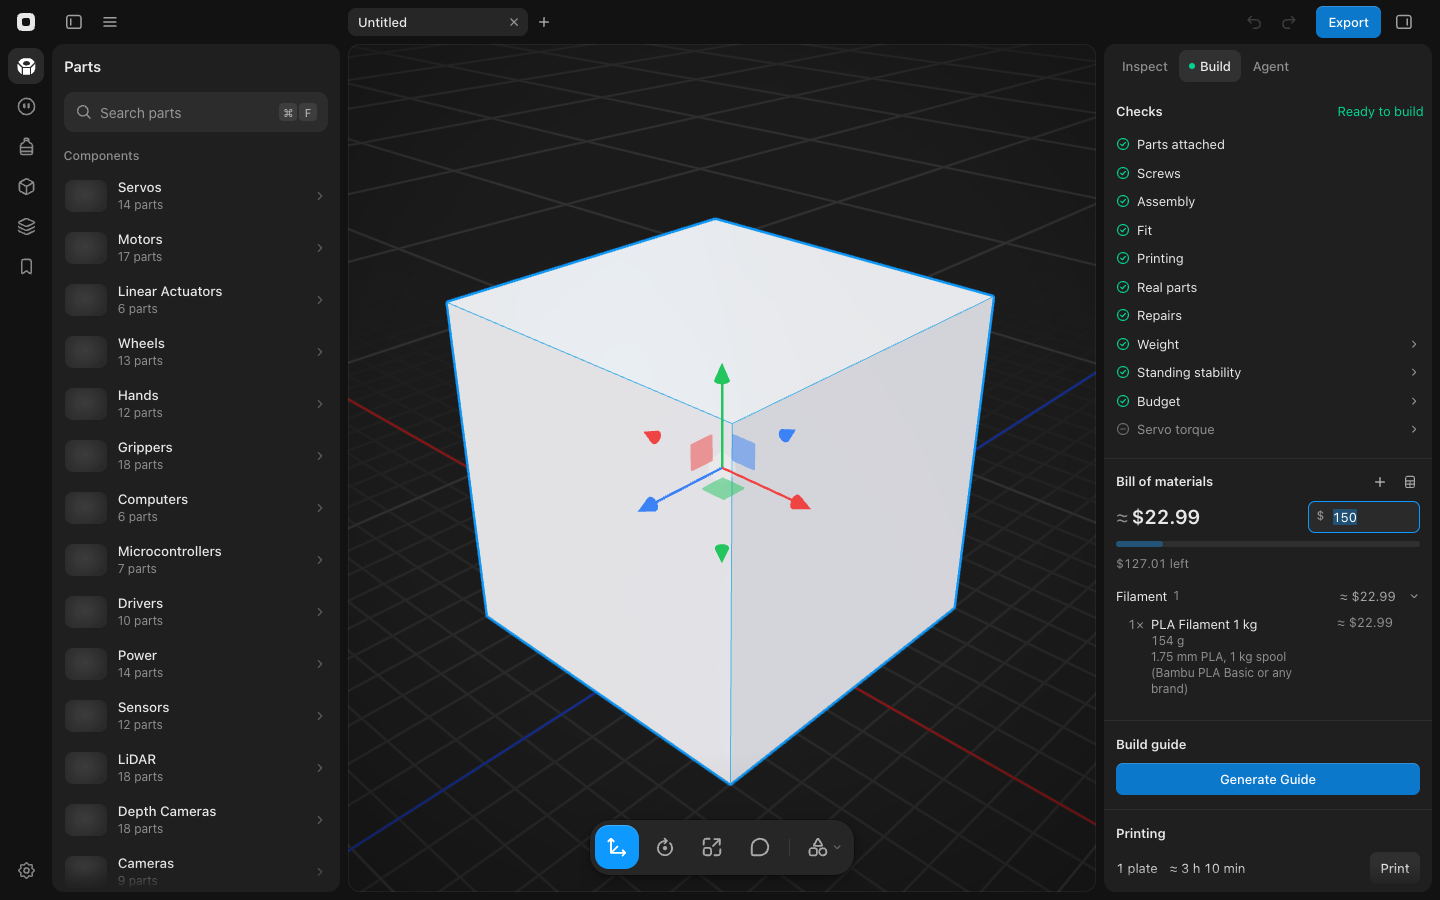
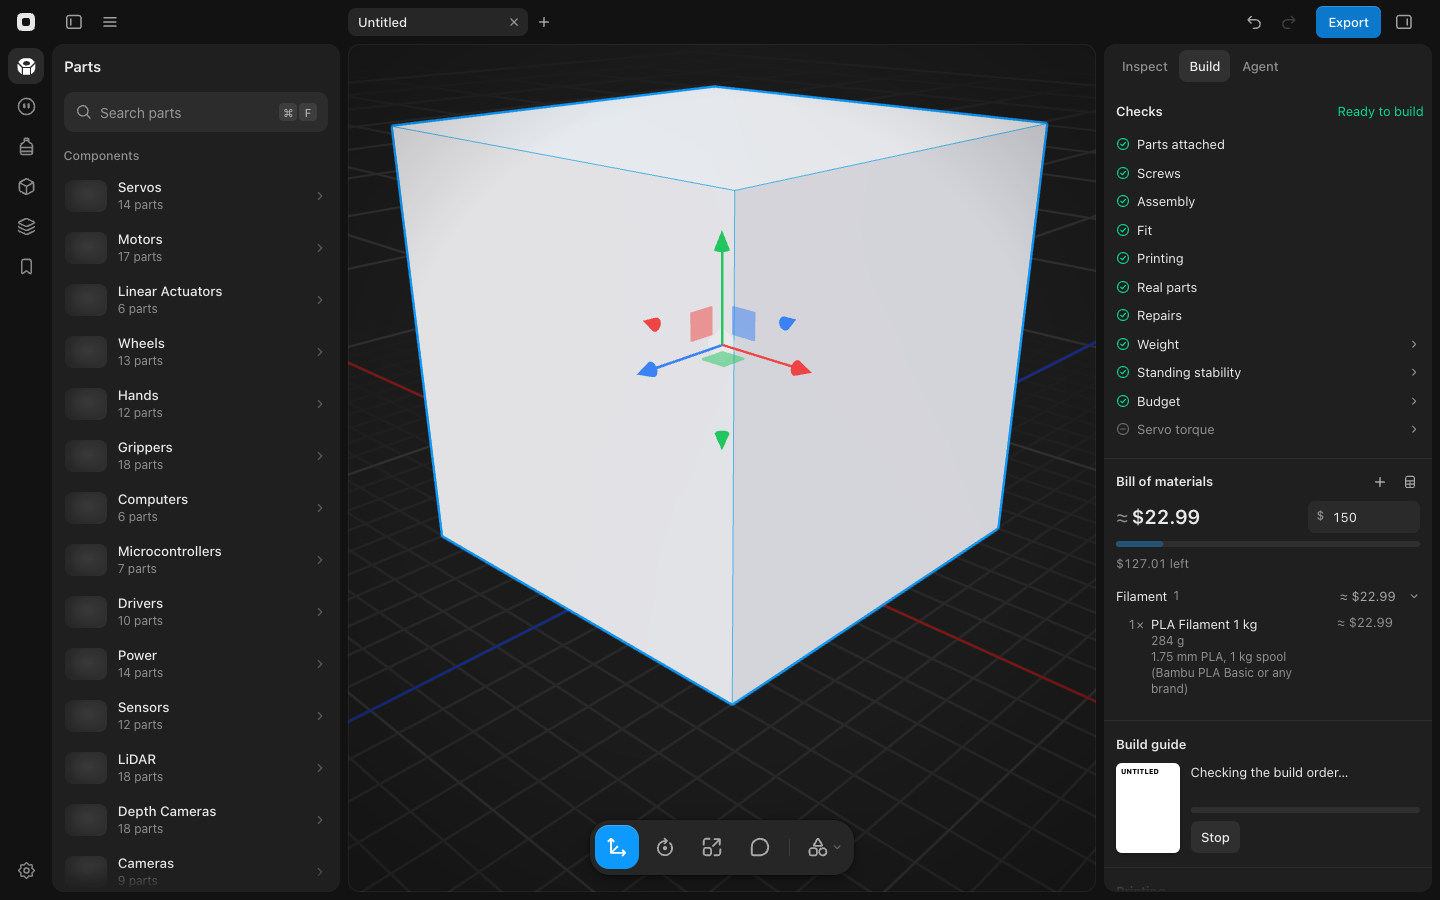
Show a tab's dot only for something live or something to fix
The Build tab drew a green dot once a design was Ready to build. That
repeated the Checks header and broke copy §3b-19, which allows status
dots only for errors and live processes. Tab dots also used native
title tooltips (§3b-18).

PanelTabs now takes a tab status with two tones, live (blue) and
problem (red), drawn by StatusDot inside the app's Tooltip. The Build
tab passes a problem status only while blockers remain, and the Play
tabs pass their live states. The guides, the Basecase window and
troubleshooting help articles, the Build tab screenshot and the
build-check e2e test describe the new behaviour.

diff --git a/src/components/PlayTabs.tsx b/src/components/PlayTabs.tsx
@@ -5,11 +5,7 @@ import type { Cases } from '../workspace/useCases';
 import type { Routines } from '../workspace/useRoutines';
 import type { PlayTab } from './playViews';
 
-const LiveDot = ({ title }: { title: string }) => (
-  <span title={title} className="inline-block w-1.5 h-1.5 rounded-full bg-figma-blue" />
-);
-
-const live = (on: boolean, title: string) => (on ? <LiveDot title={title} /> : undefined);
+const live = (on: boolean, label: string) => (on ? { tone: 'live' as const, label } : undefined);
 
 interface PlayTabsProps {
   tab: PlayTab;
@@ -22,11 +18,11 @@ export function PlayTabs({ tab, onChange, cases, routines }: PlayTabsProps) {
   const robot = useRobot();
   const run = routines.view.run;
   const tabs: PanelTab<PlayTab>[] = [
-    { value: 'cases', label: 'Cases', indicator: live(cases.attempt.phase !== 'idle', 'Trying') },
-    { value: 'routines', label: 'Routines', indicator: live(!!run && !run.done, 'Running') },
+    { value: 'cases', label: 'Cases', status: live(cases.attempt.phase !== 'idle', 'Trying') },
+    { value: 'routines', label: 'Routines', status: live(!!run && !run.done, 'Running') },
     ...(IS_WEB_DEMO
       ? []
-      : [{ value: 'operate' as const, label: 'Operate', indicator: live(robot.link === 'connected', 'Connected') }]),
+      : [{ value: 'operate' as const, label: 'Operate', status: live(robot.link === 'connected', 'Connected') }]),
   ];
 
   return <PanelTabs<PlayTab> label="Play" value={tab} onChange={onChange} tabs={tabs} />;

diff --git a/e2e/buildCheck.e2e.test.ts b/e2e/buildCheck.e2e.test.ts
@@ -73,6 +73,8 @@ const section = (title: RegExp) => app.page.locator(visible('section'), { hasTex
 
 const headerText = async () => (await checks().locator('header').first().textContent()) ?? '';
 
+const buildTabDot = () => app.page.locator(visible('[role=tab]'), { hasText: 'Build' }).first().getByRole('img');
+
 beforeAll(async () => {
   app = await openApp();
 }, 120000);
@@ -88,6 +90,7 @@ describe('Checks', () => {
     await expect.poll(() => checks().isVisible(), { timeout: 20000 }).toBe(true);
     await expect.poll(headerText, { timeout: 45000 }).toMatch(/Ready to build|\d+ to fix/);
     expect(await checks().textContent()).toContain('Parts attached');
+    expect(await buildTabDot().count()).toBe(/Ready to build/.test(await headerText()) ? 0 : 1);
 
     const leads = await checks().evaluate(
       (section) => section.parentElement?.querySelector(':scope > section') === section,
@@ -99,6 +102,9 @@ describe('Checks', () => {
   it('let you ignore a blocker for the whole project, and restore it', async () => {
     await loadStandIns();
     await expect.poll(headerText, { timeout: 45000 }).toMatch(/[1-9]\d* to fix/);
+    await expect
+      .poll(() => buildTabDot().getAttribute('aria-label'))
+      .toBe((await headerText()).match(/\d+ to fix/)?.[0]);
     expect(await checks().getByRole('button', { name: 'Fix' }).count()).toBe(0);
     await checks()
       .getByRole('button', { name: /^Real parts/ })

diff --git a/src/workspace/RightPanelTabs.tsx b/src/workspace/RightPanelTabs.tsx
@@ -13,16 +13,10 @@ interface RightPanelTabsProps {
 
 const HISTORY_INSET = 16;
 
-const ReadinessDot = ({ readiness }: { readiness: Readiness | null }) => {
-  if (!readiness || readiness.status === 'empty' || readiness.status === 'blockout') return null;
-
-  return (
-    <span
-      title={readiness.status === 'ready' ? 'Ready to build' : `${readiness.blockers.length} to fix`}
-      className={`inline-block w-1.5 h-1.5 rounded-full ${readiness.status === 'ready' ? 'bg-emerald-400' : 'bg-red-400'}`}
-    />
-  );
-};
+const toFix = (readiness: Readiness | null) =>
+  readiness?.status === 'blocked'
+    ? { tone: 'problem' as const, label: `${readiness.blockers.length} to fix` }
+    : undefined;
 
 export function RightPanelTabs({ core, agent }: RightPanelTabsProps) {
   const { studio, tool, posable, posing } = core;
@@ -33,7 +27,7 @@ export function RightPanelTabs({ core, agent }: RightPanelTabsProps) {
     { value: 'inspector', label: 'Inspect' },
     ...(posable ? [{ value: 'pose' as const, label: 'Pose' }] : []),
     ...(posing.hasRig ? [{ value: 'sim' as const, label: 'Simulate' }] : []),
-    { value: 'build', label: 'Build', indicator: <ReadinessDot readiness={core.readiness.current} /> },
+    { value: 'build', label: 'Build', status: toFix(core.readiness.current) },
     {
       value: 'acp',
       label: 'Agent',

diff --git a/src/design-system/PanelTabs.tsx b/src/design-system/PanelTabs.tsx
@@ -2,6 +2,7 @@ import React, { useEffect, useRef, useState } from 'react';
 import { ChevronDownIcon } from './glyphs';
 import { THEME_COLORS } from './theme';
 import { PopoverMenu } from './PopoverMenu';
+import { StatusDot, type Status } from './StatusDot';
 import { Tooltip } from './Tooltip';
 import { useScrollFade } from './useScrollFade';
 
@@ -11,6 +12,7 @@ export interface PanelTab<T extends string> {
   value: T;
   label: string;
   indicator?: React.ReactNode;
+  status?: Status;
   menu?: {
     title: string;
     content: (close: () => void) => React.ReactNode;
@@ -121,6 +123,7 @@ export function PanelTabs<T extends string>({ tabs, value, onChange, label }: Pa
               }`}
             >
               {tab.indicator}
+              {tab.status && <StatusDot {...tab.status} />}
               {tab.label}
             </button>
           );
@@ -171,6 +174,7 @@ function TabWithMenu<T extends string>({
         >
           <span className="flex items-center gap-1.5">
             {tab.indicator}
+            {tab.status && <StatusDot {...tab.status} />}
             {tab.label}
           </span>
           <span

diff --git a/src/design-system/StatusDot.tsx b/src/design-system/StatusDot.tsx
@@ -1,0 +1,20 @@
+import React from 'react';
+import { Tooltip } from './Tooltip';
+
+export type StatusTone = 'live' | 'problem';
+
+export interface Status {
+  tone: StatusTone;
+  label: string;
+}
+
+const TONE_FILL: Record<StatusTone, string> = {
+  live: 'bg-figma-blue',
+  problem: 'bg-red-400',
+};
+
+export const StatusDot: React.FC<Status> = ({ tone, label }) => (
+  <Tooltip label={label}>
+    <span role="img" aria-label={label} className={`inline-block w-1.5 h-1.5 rounded-full ${TONE_FILL[tone]}`} />
+  </Tooltip>
+);

diff --git a/docs/guide/design-system.md b/docs/guide/design-system.md
@@ -16,7 +16,7 @@ Use these primitives. Never hand-roll a styled `<button>` or input when one fits
 - `SearchField`: the search at the top of a sidebar view. 40px tall, 10px corners, 14px text, a 16px glass icon; the whole field is the click target. `onBack` swaps the glass icon for a Back button in the same spot (the text doesn't move), for drilled-in views. Idle it shows its shortcut as key caps on the right (hidden on focus); with a query, a round clear button takes that spot. Focus is a 1px blue ring with a soft 3px blue halo. Use it for any list-filtering search; keep `TextInput` for form fields.
 - `ColorField`: swatch + hex field. The picker opens beside the inspector with a saturation/brightness square, hue strip, hex input, eyedropper (`EyeDropper` API) and “In this scene” colors. Never list fixed swatch rows. `ColorPickerPopover` is the same picker on its own anchor (`side: 'top'` opens it above a floating bar, as the marks pill's Custom color does).
 - `ColorSwatches`: a row of named colors plus Custom color, for drawing tools only (the marks pill, the Sketch palette). `onPicked` fires when a choice is finished: a named color, or the custom picker closing. `ColorSwatch` is one circle.
-- `SegmentedControl` (sliding thumb, `tone: 'danger'`) for choices inside content, `ChoiceGrid` for a choice from a list that wraps (sizes, finishes, drives; `stacked` puts an icon over the label) on the same soft track and thumb (`CHOICE_TRACK`, `choiceCellClass` in `choiceStyles.ts` for hand-built strips), `PanelTabs` for a card's views (quiet labels, the current one on a soft pill; content-sized; when they don't fit they scroll sideways (the wheel scrolls too) with a 24px edge fade only while tabs are hidden past it, and the current tab scrolls into view clear of the fade; a tab's `menu`, while it's the current tab, widens its pill on hover as a chevron fades in, and a click anywhere on the pill opens it (a tab that drops its `menu` while it's open closes it, so it never reopens on its own); for optical balance its right padding is 11px, selected or not, and 7px with the chevron, whose glyph carries 3px of air), `AgentSpinner` (a white `textPrimary` ring; `color` tints it), `Section` (hairline; collapsible with a chevron at the right, styled like the header actions: down when collapsed, up when open; `summary` shows a muted fact on the right of the header only while collapsed, part of the toggle; nest one inside another with `!px-0 !py-0 !border-b-0`), `ModeHeader` (a mode's 44px header in the card that hosts it: its title at 15px semibold, then any `actions` and a primary Done with Esc in its tooltip; Print and a running Case), `SectionHeader`
+- `SegmentedControl` (sliding thumb, `tone: 'danger'`) for choices inside content, `ChoiceGrid` for a choice from a list that wraps (sizes, finishes, drives; `stacked` puts an icon over the label) on the same soft track and thumb (`CHOICE_TRACK`, `choiceCellClass` in `choiceStyles.ts` for hand-built strips), `PanelTabs` for a card's views (quiet labels, the current one on a soft pill; content-sized; when they don't fit they scroll sideways (the wheel scrolls too) with a 24px edge fade only while tabs are hidden past it, and the current tab scrolls into view clear of the fade; a tab's `menu`, while it's the current tab, widens its pill on hover as a chevron fades in, and a click anywhere on the pill opens it (a tab that drops its `menu` while it's open closes it, so it never reopens on its own); for optical balance its right padding is 11px, selected or not, and 7px with the chevron, whose glyph carries 3px of air; a tab's `status` puts a 6px dot before its label (`StatusDot`: `live` blue or `problem` red, named in a `Tooltip`, never a green all-clear, §3b-19), and `indicator` takes a live spinner), `AgentSpinner` (a white `textPrimary` ring; `color` tints it), `Section` (hairline; collapsible with a chevron at the right, styled like the header actions: down when collapsed, up when open; `summary` shows a muted fact on the right of the header only while collapsed, part of the toggle; nest one inside another with `!px-0 !py-0 !border-b-0`), `ModeHeader` (a mode's 44px header in the card that hosts it: its title at 15px semibold, then any `actions` and a primary Done with Esc in its tooltip; Print and a running Case), `SectionHeader`
 - `TracePlot` (`traces`: `id`, `values`, `tone` `primary` | `muted` | `accent`): lines over time on one shared range, evenly spaced, on a `#262626` rounded field; no axes, ticks or legend, since the row it sits in and the figures beside it say what each line is. Light for what was measured, grey for a reference, the accent for the one that's yours. Each path carries `data-testid="trace-<id>"`; missing samples lift the pen; a trace longer than twice the plot's width is drawn as each column's low and high, so spikes survive; `loading` shimmers. Optional: `playhead` (a sample index, a white vertical line), `limit` (a dashed grey line, kept inside the range), `markers` (sample indices, red vertical lines for failures) and `onSeek` (press or drag maps x to the nearest sample). The calibration replay in Operate (§8k) and the try timeline (§8h) use it.
 - `RowActions` (`fill`, `shown`): a row's hover controls, overlaid on its right end on a gradient of the row's `fill` (transparent → opaque over 32px), hidden and unclickable until the row (`group`) is hovered or focused; `shown` keeps them up, e.g. while their menu is open. Position it with `className`, as in Calibrate's rows, Build's notes and comment threads. A lone hover control without a row fill (a Parts tile's +) takes `REVEAL_ON_HOVER`, the same hidden-and-unclickable classes.
 - `BrowseRow`: a 52px row that opens a narrower list in a sidebar view (title, a muted meta line, a chevron; `thumb` leads with a picture): Parts' categories and Objects' categories.

diff --git a/docs/guide/layout.md b/docs/guide/layout.md
@@ -7,7 +7,7 @@ Part of the Basecase guide. [AGENTS.md](../../AGENTS.md) holds the rules every c
 - **Docked side panels** (Figma reverted floating panels because they cramped the canvas).
   - Each panel is a rounded card (§2) with a 44px header row; window-level controls live in the title bar.
   - **Left (288px):** shows one view at a time, picked in the view rail (§2): **Parts · Robots · Objects · Play · Layers · Library**, opening on Parts. Its header names the view, except Play's. Loading another scene into the tab sends the scene's own views (Cases, Routines) back to Parts, so a rail click always opens the view rather than collapsing it.
-    - **Play** (`components/PlayTabs.tsx`, `playViews.ts`): one rail item for what the robot does once it's designed, with **Cases · Routines · Operate** as tabs in its header (`PanelTabs`, `aria-label="Play"`; Operate is desktop only). A tab's blue dot says something is live there while you look at another: a Case try (“Trying”), a Routine run (“Running”), the emulated robot (“Connected”). The rail button reopens the last Play tab (Cases at first), and clicking it while any Play tab is open collapses the sidebar. Without a robot in the scene Cases and Routines show one “No robot” + [Browse Robots] (`PlayNoRobot.tsx`) instead of the tab. Operate keeps its own panel, because a connection and its messages (a lost daemon above all) outlive the scene's robot. Commands that open a view (⌘K, the agent) still name the tab, so they land on it directly.
+    - **Play** (`components/PlayTabs.tsx`, `playViews.ts`): one rail item for what the robot does once it's designed, with **Cases · Routines · Operate** as tabs in its header (`PanelTabs`, `aria-label="Play"`; Operate is desktop only). A tab's blue dot (`status`, tone `live`) says something is live there while you look at another, named in its tooltip: a Case try (“Trying”), a Routine run (“Running”), the emulated robot (“Connected”). The rail button reopens the last Play tab (Cases at first), and clicking it while any Play tab is open collapses the sidebar. Without a robot in the scene Cases and Routines show one “No robot” + [Browse Robots] (`PlayNoRobot.tsx`) instead of the tab. Operate keeps its own panel, because a connection and its messages (a lost daemon above all) outlive the scene's robot. Commands that open a view (⌘K, the agent) still name the tab, so they land on it directly.
     - **Robots** (`RobotsPanel`): published robots to insert with their joints (§8c). Search first (“Search robots”; Enter searches SimReady at once and inserts nothing), then Imported and a section per kind: Humanoids, Small bipeds, Quadrupeds, Arms (hands are in Parts → Hands). Tiles (2 columns, like Parts) show a preview, the name and the maker; a click inserts it (the toast shows progress) or drags onto the canvas, where it stands at the drop point (§7a-2). Imported comes first: robots inserted from a link, with the preview their import rendered (right-click ▸ Delete takes one off the list after asking, like a Library model; scenes that use it keep it). Last comes **SimReady**: the makers' own arms, grippers and robot bodies from SimReady Central (Franka, UR, FANUC, Comau, Robotiq, OnRobot, AgiBot…), searched with the same field and inserted with their joints. Import Robot (a URDF / MJCF / zip link, a GitHub repo or folder, or a local folder) is the + in the view's header.
     - **Parts** (`PartsPanel`): search first, then browse. Views stack with no header row of their own: inside a view the search field's glass icon becomes Back (Esc in an empty field also goes back), and the field names the view and searches only it (“Search servos”, “Search screws”; a part page searches its group). No scoped matches shows [Search All Parts].
       - **Search** (always on top, a `SearchField`; ⌘F opens Parts and focuses it from anywhere): matches name, maker, part number, aliases and group words, ranking a word that names the group first (“servo” → servos). Results start right under the field with no count above them, like every other sidebar search. Result rows (and a part page's Goes with) carry no room for their +: it floats over the row's right end on hover (`RowActions`), and stays on the highlighted row, so names and makers run the row's full width. A size makes hardware exact: “m3x12”, “M2.5 standoff 12”, “608”. ↑/↓ move, Enter opens the highlighted part, ⌘Enter adds it. Enter in a sidebar search never changes the scene on its own.

diff --git a/docs/guide/build.md b/docs/guide/build.md
@@ -6,7 +6,7 @@ Part of the Basecase guide. [AGENTS.md](../../AGENTS.md) holds the rules every c
 
 The Build tab (right panel) and the agent's build tools turn a model into something you can print and buy. Everything here is computed from the scene; nothing comes from agent text. The rules come from docs/research/Printable humanoid engineering (cited there), never from other local projects.
 
-- **Checks** (`src/readiness/`, `workspace/runReadiness.ts`, `useReadiness.ts`, `build/ChecksSection.tsx`): the one answer to “can this be built?”, so nobody has to ask. `runReadiness` waits for component meshes, runs every check, in workers wherever they measure geometry, about 1.5 s after the last change (`projectFingerprint`), and merges them into findings, each a **blocker** or a **note**. The fingerprint covers everything a reading depends on: geometry (hashed once per array, `utils/geometryHash.ts`), each part's material, role, visibility, tag, name, note, weight and print settings, the project's infill, gaits and ranges, saved prices and the currency. A newer run's result always wins over an older one (`newestRuns`). A run that throws or stops at the time limit is a blocker (`unfinished`), never the last verdict left standing, and its fingerprint stays empty so asking again measures again. Status: Ready to build, or how many are left to fix (a block-out while stand-ins remain, for the agent). The Build tab shows it first and the tab carries a dot. Agent text never changes it.
+- **Checks** (`src/readiness/`, `workspace/runReadiness.ts`, `useReadiness.ts`, `build/ChecksSection.tsx`): the one answer to “can this be built?”, so nobody has to ask. `runReadiness` waits for component meshes, runs every check, in workers wherever they measure geometry, about 1.5 s after the last change (`projectFingerprint`), and merges them into findings, each a **blocker** or a **note**. The fingerprint covers everything a reading depends on: geometry (hashed once per array, `utils/geometryHash.ts`), each part's material, role, visibility, tag, name, note, weight and print settings, the project's infill, gaits and ranges, saved prices and the currency. A newer run's result always wins over an older one (`newestRuns`). A run that throws or stops at the time limit is a blocker (`unfinished`), never the last verdict left standing, and its fingerprint stays empty so asking again measures again. Status: Ready to build, or how many are left to fix (a block-out while stand-ins remain, for the agent). The Build tab shows it first, and the tab carries a red dot, named “⟨n⟩ to fix” in its tooltip, only while something is left to fix: Ready to build needs no dot (§3b-19). Agent text never changes it.
   - **Blockers:** `check_assembly` chain problems, unheld parts and anything stuck in every order (`isBlockingRank`); engineering FAILs; real clashes and undersized insert holes; parts off the plate or with thin panels; stand-ins and parts with no source; anything printed that's marked clear or glass (the name ends in it, “Front Glass”, or the note opens with it, “Clear acrylic disc”; a note that only mentions glass isn't enough); inserts with under 0.8 mm of wall; a battery with under 10 mm free past both ends for its leads (bare cells have none); screws off every hole in a catalog part or deeper than its `depthMm`; sourced items that aren't referenceable. A row's `items` may each carry their own `status`, so one failing servo doesn't turn its neighbours' warnings into blockers; a row with `itemsAreContext` (Budget) is one finding.
   - **Fasteners into hardware:** standoffs and T-nuts are receivers like nuts, needing about one thread diameter of engagement; a screw into a rail carriage, extrusion, collar or pulley threads into it. A standoff joins whatever the screws on both its ends clamp, so a board on a female-female standoff needs both. A set screw holds its hub when it also touches something past its tip. A head may rest on any hardware. A screw whose driver paths weren't measured reads `not run`, never stuck.
   - **Straight moves and drivers:** moves sample part faces, not only vertices (`gridSamples`), so a low-poly bar is blocked by a bar it crosses. Driver and L-key paths are ray segments (`driverAccess.ts`), so no wall is thin enough to fall between samples.

diff --git a/docs/guide/copy.md b/docs/guide/copy.md
@@ -57,7 +57,7 @@ Every word in the UI is product copy. Write it to the standard below, and check 
     - Part types are **Solid / Cutout / Guide**.
 18. **Icon-first.** Our own icons (`src/design-system`, §14) with custom tooltips (the `Tooltip` primitive), never native `title` on buttons. There's no third-party icon set.
     - When the library has nothing that reads clearly, draw a new icon with the `icon-design` skill (`.agents/skills/icon-design/SKILL.md`): 24 grid, 2px round strokes, an outline/filled pair for anything that toggles, previewed beside its neighbours before shipping.
-19. **No status dots** unless they report an error or a live background process. The agent panel shows connection state only when disconnected.
+19. **No status dots** unless they report an error or a live background process. The agent panel shows connection state only when disconnected. A tab's dot is its `status` in `PanelTabs`, whose only tones are `live` (blue) and `problem` (red), named in the app's own tooltip: the Build tab shows red while something is left to fix and nothing once it's Ready to build.
 
 ### 3c. Words and patterns to avoid
 

diff --git a/site/content/help/the-basecase-window.md b/site/content/help/the-basecase-window.md
@@ -73,7 +73,7 @@ The right panel has a tab for each job:
 - **Inspect** edits the selected part's size, position, rotation and look.
 - **Pose** moves a robot's joints. It shows while a robot is selected.
 - **Simulate** runs the scene under physics. It shows once the scene has movable joints.
-- **Build** holds the Checks, bill of materials, build guide and printing. Its dot is green when the design is ready to build, and red when something needs fixing.
+- **Build** holds the Checks, bill of materials, build guide and printing. A red dot on it means something is left to fix. Its tooltip says how many.
 - **Agent** is where you talk to the agent.
 
 Drag the edge of the sidebar or the right panel to resize it. Double-click the edge to put it back to its default width.

diff --git a/site/content/help/troubleshoot-build-check-blocks-ready-to-build.md b/site/content/help/troubleshoot-build-check-blocks-ready-to-build.md
@@ -40,7 +40,7 @@ A blocker remains somewhere in the list, often in a check you haven't opened.
 4. Change the part, or click **Fix** to hand the problem to the agent.
 5. Wait a moment after your last edit. The header reads **Checking…**, then the new verdict.
 
-It worked when the header reads **Ready to build** and the dot on the **Build** tab turns green.
+It worked when the header reads **Ready to build** and the red dot on the **Build** tab is gone.
 
 ## “Some checks didn’t finish, so this answer isn’t complete.”
 
